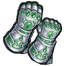
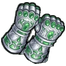
Găng Linh: ghép khít bằng phép biến đổi tìm từ khớp điểm đặc trưng (SIFT) giữa 3 mẫu găng
Claude-Session: https://claude.ai/code/session_014A94BHnyL4tu48AS77QbVM

diff --git a/src/config/items.ts b/src/config/items.ts
@@ -190,7 +190,7 @@ export function weaponHoldSrc(it: Pick<ItemInst, 'weaponId' | 'tier'>, img = 'he
 }
 
 /** Đổi số này khi vẽ lại hình trang bị để trình duyệt tải bản mới */
-export const GEAR_ART_V = 17;
+export const GEAR_ART_V = 18;
 
 export interface BibaoDef {
   id: string;

diff --git a/tools/art/gear_from_ai.py b/tools/art/gear_from_ai.py
@@ -145,17 +145,19 @@ def linh_fist(src, msk):
                                 (1144, 100), (1138, 125), (1128, 140), (1118, 155), (1105, 175), (1100, 218), (1015, 218),
                                 (1008, 150)], np.int32)], 0)                                       # bỏ nguyên chiếc trái
     base[..., 3] = al
-    T = np.float32([[1, 0, -80], [0, 1, -37]])                          # 2a (cổ găng + vòng đai chiếc phải) → chỗ chiếc trái
-    p2 = piece(full, [(1150, 72), (1180, 66), (1215, 83), (1234, 110), (1226, 136), (1197, 161), (1136, 143), (1143, 125),
-                      (1149, 100)], T, (W, H))
-    M = cv2.getRotationMatrix2D((115, 380), 13, 0.6)                    # 1a: nắm tay găng đơn (kèm vòng đai, nằm dưới đai 2a)
-    M[0, 2] += 1085 - 115; M[1, 2] += 118 - 380
+    # Biến đổi tìm bằng khớp điểm đặc trưng SIFT + RANSAC (3 mẫu cùng bộ vẽ → khớp khít):
+    #   chiếc phải → chiếc trái: phần đai + nắm tay chiếc phải trùng phần đai + đầu dưới chiếc trái
+    #   găng đơn → chiếc phải: phần đai + nắm tay găng đơn trùng phần đai + nắm tay chiếc phải
+    T_RL = np.float32([[1.016, 0.002, -90.835], [-0.002, 1.016, -31.289]])
+    T_SR = np.float32([[0.729, 0.121, 1023.461], [-0.121, 0.729, -114.088]])
+    T_SL = (np.vstack([T_RL, [0, 0, 1]]) @ np.vstack([T_SR, [0, 0, 1]]))[:2].astype(np.float32)
+    p2 = piece(full, [(1157, 73), (1190, 69), (1215, 83), (1234, 110), (1226, 136), (1197, 161), (1133, 143), (1140, 125),
+                      (1146, 100), (1150, 80)], T_RL, (W, H))                       # 2a: cổ găng + đai chiếc phải → thay 2b
     p1 = piece(full, [(30, 380), (70, 345), (110, 345), (175, 380), (175, 430), (160, 470), (130, 495), (60, 495), (15, 460)],
-               M, (W, H))
+               T_SL, (W, H))                                            # 1a: nắm tay găng đơn → thay 1b
     out = under(base, under(p1, p2))[0:260, 1000:1260]                  # chiếc phải nằm trên các mảnh ghép
-    # viền tối 2px quanh hình ghép (mép trái cổ găng mới không có nét viền)
-    solid = (out[..., 3] > 128).astype(np.uint8)
-    ring = cv2.dilate(solid, np.ones((5, 5), np.uint8)).astype(bool) & ~solid.astype(bool)
+    solid = (out[..., 3] > 128).astype(np.uint8)                        # nét viền mảnh 1px quanh hình ghép
+    ring = cv2.dilate(solid, np.ones((3, 3), np.uint8)).astype(bool) & ~solid.astype(bool)
     out[ring] = (18, 32, 24, 255)
     return out
 
